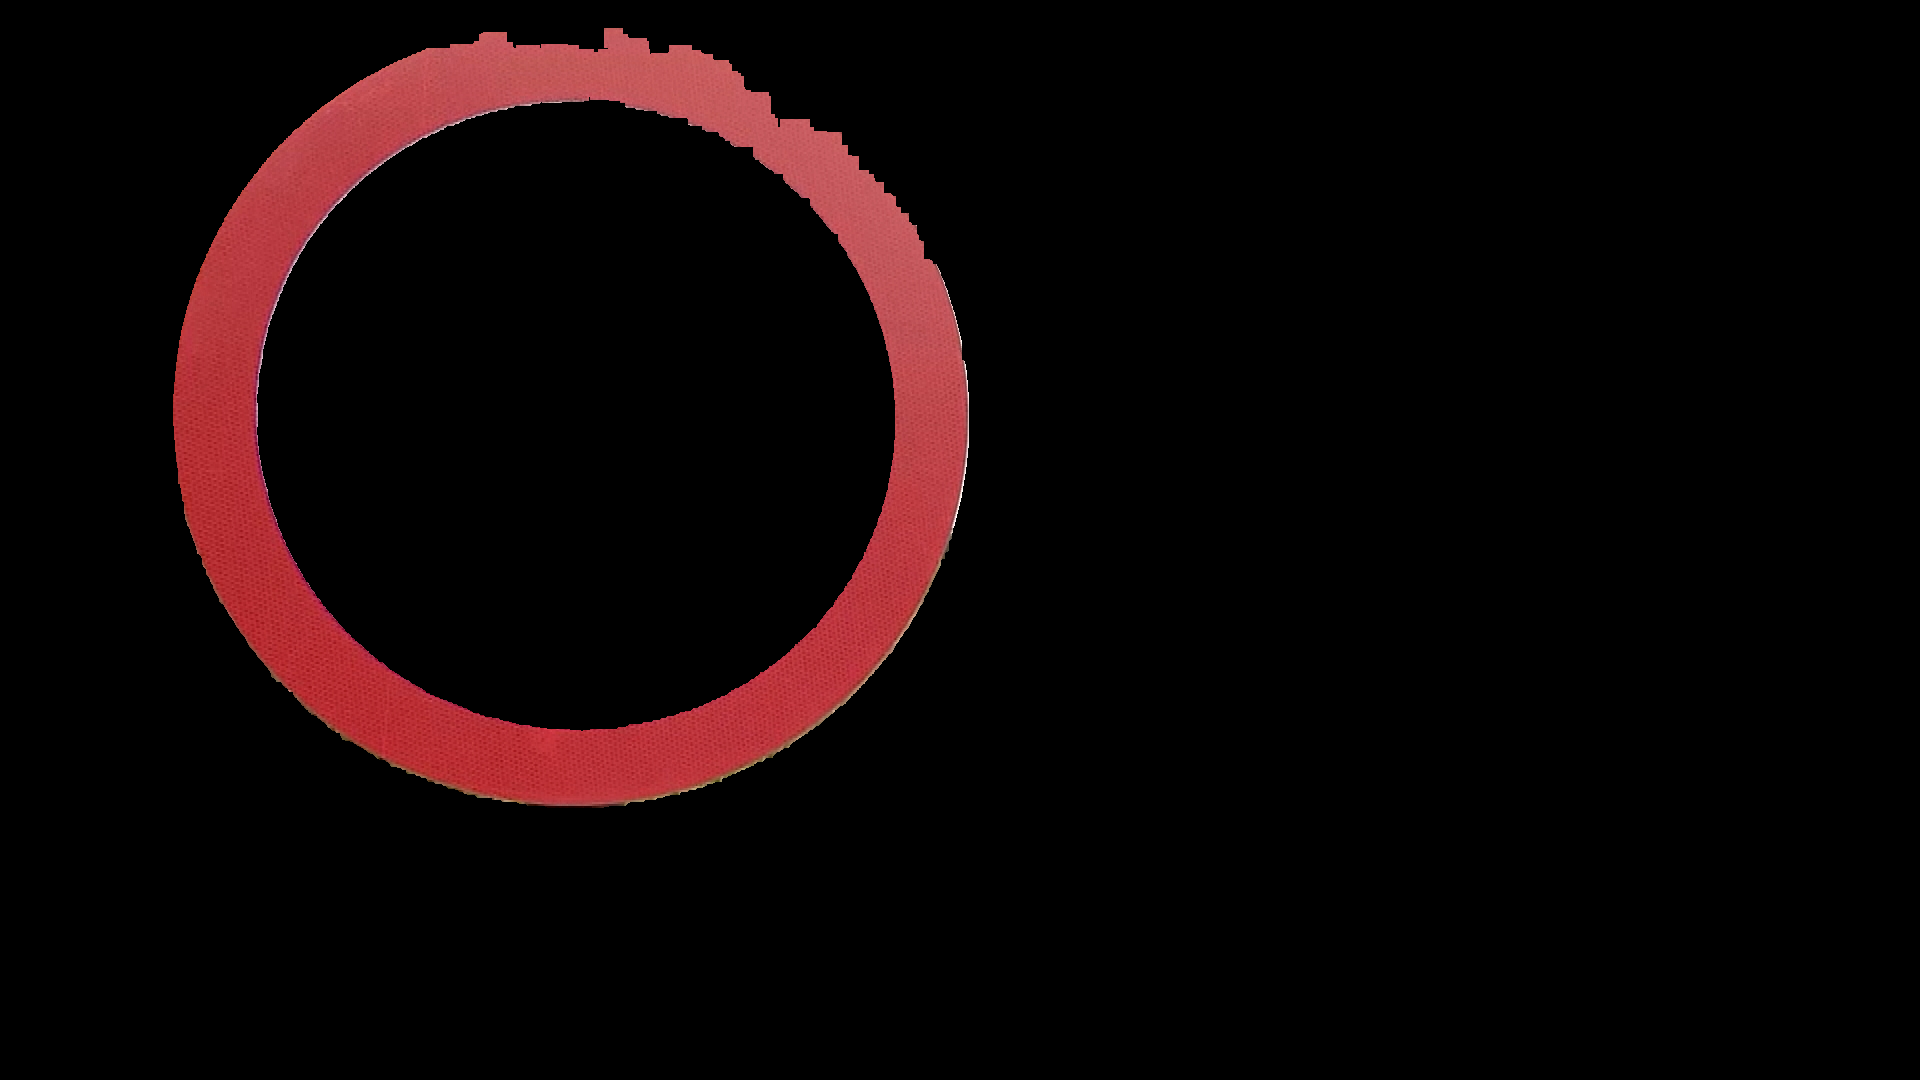
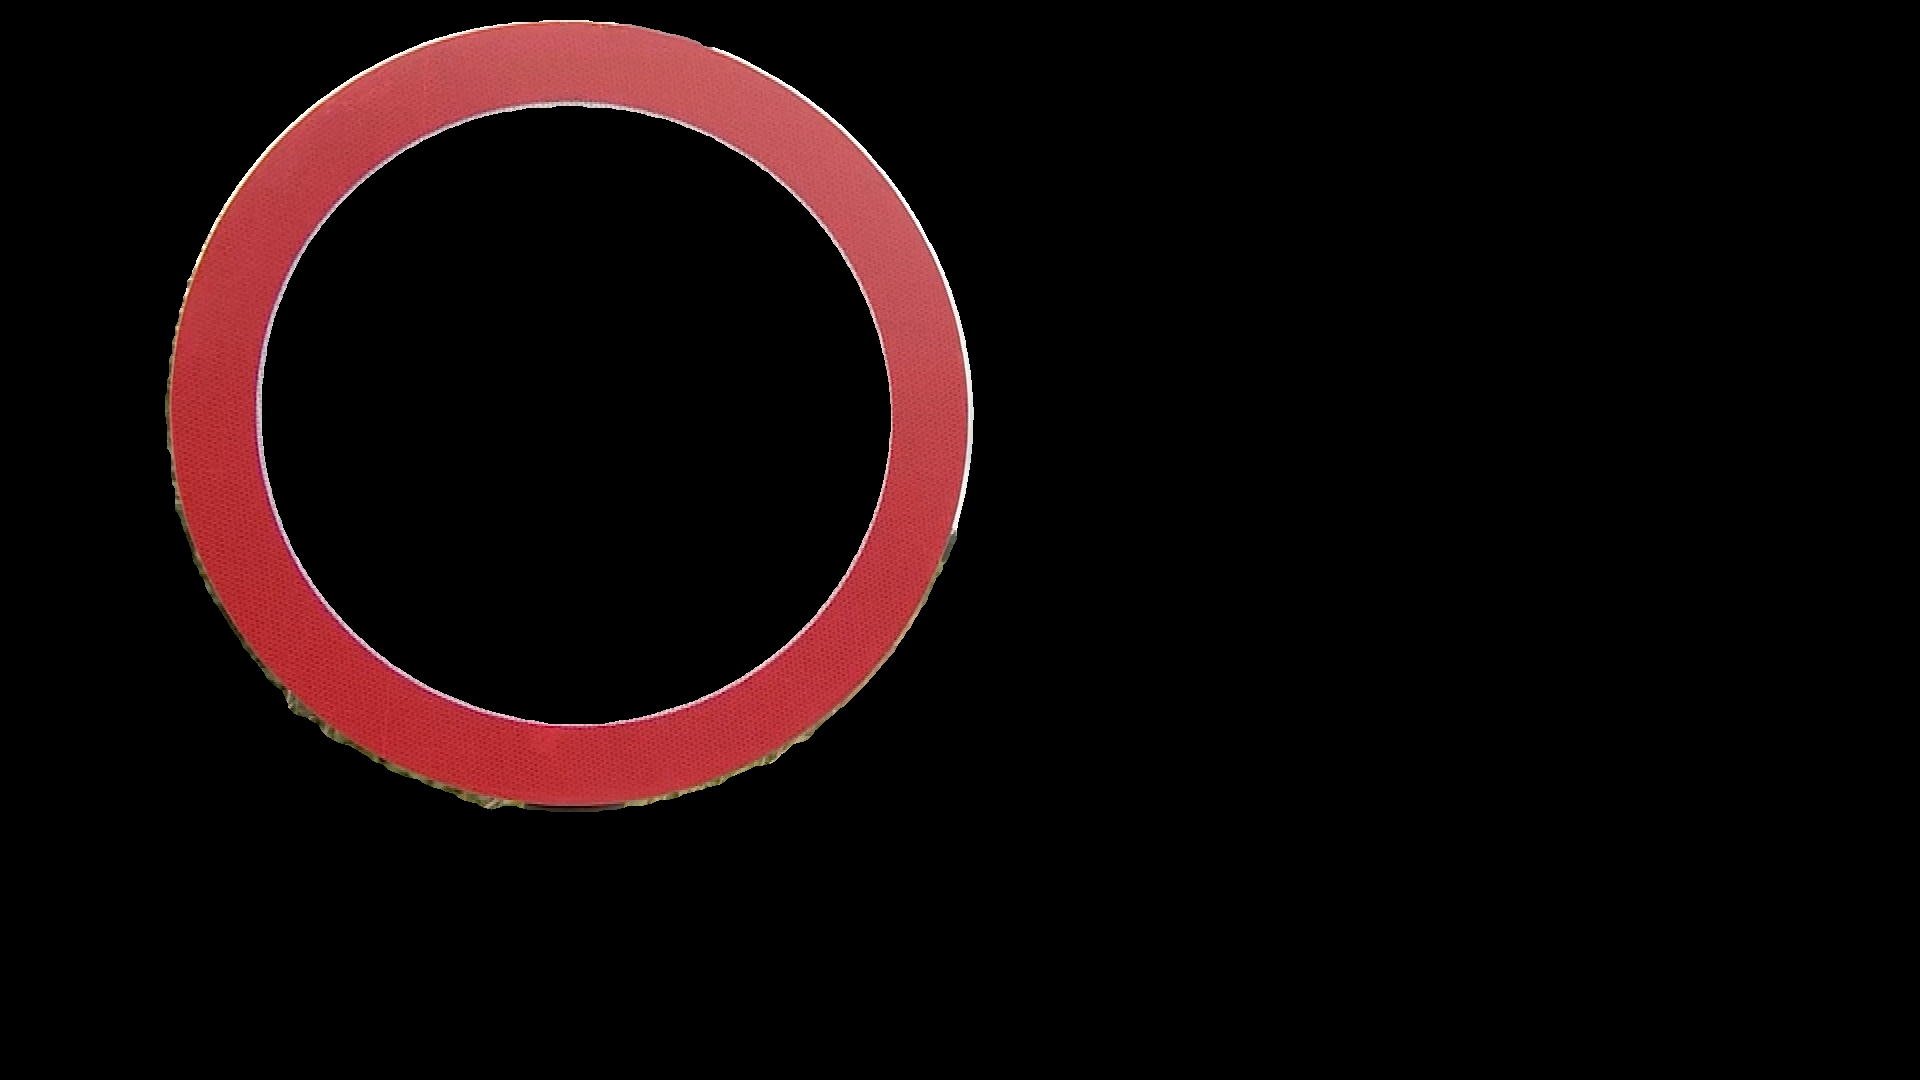
cleaned up a lot of code runs a lot faster now

diff --git a/Signdetect.py b/Signdetect.py
@@ -4,113 +4,49 @@ import matplotlib.pyplot as plt
 
 # Load the main image and the template image
 main_image = cv2.imread('speed_photos/UK_20mph.jpg')
-template = cv2.imread('Template speeds/20.jpeg')
-"""
-# Convert images to grayscale
-main_gray = cv2.cvtColor(main_image, cv2.COLOR_BGR2GRAY)
-template_gray = cv2.cvtColor(template, cv2.COLOR_BGR2GRAY)
 
-binary_mask = template_gray < t
-
-# Perform template matching
-result = cv2.matchTemplate(main_gray, template_gray, cv2.TM_CCOEFF_NORMED)
-
-# Define a threshold to find matches
-threshold = 0.8
-loc = np.where(result >= threshold)
-
-# Draw rectangles around matched areas
-for pt in zip(*loc[::-1]):
-    bottom_right = (pt[0] + template.shape[1], pt[1] + template.shape[0])
-    cv2.rectangle(main_image, pt, bottom_right, (0, 255, 0), 2)
-
-# Display the result
-cv2.imshow('Template Matching Result', main_image)
-plt.imshow(binary_mask, cmap='gray')
-plt.show()
-cv2.waitKey(0)
-cv2.destroyAllWindows()
-"""
-"""
-# Split the image into its BGR channels
-blue, green, red = cv2.split(main_image)
-
-# Set the blue and green channels to zeros
-blue[:] = 0
-green[:] = 0
-
-# Merge the channels back together
-red_image = cv2.merge((blue, green, red))
-# Display or save the image with only the red channel
-cv2.imshow('Red Channel Image', red_image)
-cv2.waitKey(0)
-cv2.destroyAllWindows()
-"""
 """Getting original mask"""
 def preprocess(image):
-
-        # Define a kernel for erosion and dilation
-    K = 20
-    kernel = np.ones((K, K), np.uint8)
-    # Perform dilation on the image
-    n = 80
-
-    left = 2*n*K
-    right = 2*n*K
-    top = 2*n*K
-    bottom = 2*n*K
-
-    Shiftimg = cv2.copyMakeBorder(image, top, bottom, left, right, cv2.BORDER_CONSTANT, value=(0, 0, 255))
 
     # Define the boundaries for red color in BGR format
     lower_red = np.array([20, 0, 100], dtype=np.uint8)
     upper_red = np.array([100, 100, 255], dtype=np.uint8)
 
     # Create a mask to detect red color within the specified boundaries
-    mask = cv2.inRange(Shiftimg, lower_red, upper_red)
+    mask = cv2.inRange(image, lower_red, upper_red)
 
     # Apply the mask to extract only the red-colored region
-    red_region = cv2.bitwise_and(Shiftimg, Shiftimg, mask=mask)
+    red_region = cv2.bitwise_and(image, image, mask=mask)
 
+    red_region = mask
 
     # Define the kernel size and standard deviation
-    ksize = (5, 5)  # Kernel size (has to be positive and odd)
+    ksize = (9, 9)  # Kernel size (has to be positive and odd) for Gaussian blur
+    kernal_size = 20  # Kernel size (has to be positive and odd) for the erosion and dilation
     sigmaX = 0  # Standard deviation in X direction
 
     # Apply Gaussian blur
     blurred_image = cv2.GaussianBlur(red_region, ksize, sigmaX)
 
     # Define a kernel for erosion and dilation
-    kernel = np.ones((10, 10), np.uint8)
+    #kernel = np.ones((10, 10), np.uint8)
+    kernel = cv2.getStructuringElement(cv2.MORPH_ELLIPSE, (kernal_size,kernal_size))
 
     # Perform erosion on the image
     img_erosion = cv2.erode(blurred_image, kernel, iterations=2)
 
     # Perform dilation on the image
     img_dilation = cv2.dilate(img_erosion, kernel, iterations=2)
-    
 
 
+    return img_dilation
 
 
-    img_er2 = img_dilation
-    
-    img_er2 = img_er2[top:img_er2.shape[0]-bottom, left:img_er2.shape[1]-right]
+mask = preprocess(main_image)
 
-    return img_er2
 
-extract_img = preprocess(main_image)
-# Display or further analyze the extracted red-colored region
-extract_img = cv2.cvtColor(extract_img, cv2.COLOR_BGR2GRAY)
-ret, mask = cv2.threshold(extract_img, 50, 255, cv2.THRESH_BINARY)
-
- 
-# Now black-out the area of logo in ROI
+# Now black-out the area
 extracted_region = cv2.bitwise_and(main_image,main_image,mask = mask)
 
 cv2.imwrite('extracted_region.png', extracted_region)
 
-cv2.imshow('Dilation', extracted_region)
-#cv2.imshow('Dilation', extract_img)
-cv2.waitKey(0)
-cv2.destroyAllWindows()

diff --git a/Image_extract.py b/Image_extract.py
@@ -33,7 +33,7 @@ text = 'distance:' + str(round(distance,3)) + 'm, ' + 'position:' + str(x+w/2) +
 font = cv2.FONT_HERSHEY_SIMPLEX
 color = (0, 0, 0)  # BGR color format
 position = (50, 50)
-thickness = 2
+thickness = 3
 
 # Add text to the image
 cv2.putText(cropped_image, text, position, font, 1, color, thickness, cv2.LINE_4)
